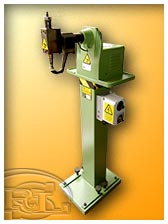
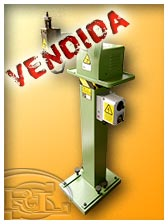
Added: Encolar Suelas 'M-550', plus some other little changes

Changed region(s): [[0.0, 0.0, 0.8036, 0.4062]]

diff --git a/maquinas/encolar/maqUs_encolar-suelas-rodillo-flexible_M-550.htm b/maquinas/encolar/maqUs_encolar-suelas-rodillo-flexible_M-550.htm
@@ -3,11 +3,11 @@
 
 <head>
 <meta http-equiv="Content-Type" content="text/html; charset=utf-8" />
-<title>RaLoS, Maquinaria USADA para Calzado | Máquina de Rebajar Piel con Aspiración y Embrague 'FAV AV2' (#1)</title>
-<meta name="keywords" content="fav av 2, fav av2, rebajar piel fav, rebajar piel, maquinaria rebajar piel, máquina rebajadora piel, máquina rebajar piel, máquina rebajar zapato, máquina rebajar zapatos, máquina rebajadora calzado, máquina rebajar calzado, máquina rebajadora zapato, máquina rebajadora zapatos, rebajar piel, rebajar segunda mano, rebajar ocasión, rebajar segunda mano, maquinaria usada zapatos, maquinas usadas zapatos, segunda mano, ocasion, ralos, Elda, Alicante" />
+<title>RaLoS, Maquinaria USADA para Calzado | Máquina de Encolar Suelas con Rodillo Flexible 'M-550'</title>
+<meta name="keywords" content="m550, m 550, encolar m550, encolar m 550, encolar suelas, maquina encolar, dar cola zapato, encolar zapato, encolar suelas zapato, dar cola calzado, maquina encolar suelas, encolar suelas calzado, encolar suelas segunda mano, encolar suelas usada, maquinaria usada zapatos, maquinas usadas zapatos, segunda mano, ocasion, ralos, Elda, Alicante" />
 
-<meta name="description" content="RaLoS, Maquinaria USADA para Calzado - Máquina de OCASIÓN para Rebajar Piel con Aspiración y Embrague 'FAV AV2'" />
-<meta name="creation_Date" content="04/01/2014" />
+<meta name="description" content="RaLoS, Maquinaria USADA para Calzado - Máquina de OCASIÓN para Encolar la Suela del Zapato con Rodillo Flexible 'M-550'" />
+<meta name="creation_Date" content="17/06/2014" />
 <meta name="geography" content="Fundadores de la Industria del Calzado, 4 (Bajos) - Elda (Alicante) 03600 SPAIN" />
 <meta name="language" content="spanish, español" />
 <meta name="robots" content="index, nofollow" />
@@ -87,15 +87,15 @@ counter++;
     <div class="divider4" style="min-height: 20px;"></div>
   	<div id="mainLogo"><a href="../../index.htm" target="_parent"><img src="../../assets/logoRalos.gif" alt="Inicio" name="logoRalos" width="324" height="102" border="0" /></a></div>
   	<!--<div id="mainLogoBg"></div>-->
-  	<div class="divider1"></div>
-		<h1 style="text-decoration: none; margin-bottom: 0px">RaLoS, MAQUINARIA USADA: Máquina de Rebajar Piel con Aspiración y Embrague &quot;FAV AV2&quot; (#1)</h1>
+ 	<div class="divider1"></div>
+		<h1 style="text-decoration: none; margin-bottom: 0px">RaLoS, MAQUINARIA USADA: Máquina de Encolar Suelas con Rodillo Flexible &quot;M&#8209;550&quot;</h1>
     <div class="divider2"></div>
     <div id="productContainer">
 			<ul>       
         <li id="n001">
         	<div class="liContainer"><a href="#n002" target="_self" title="Haz clic aquí para ir a la siguiente imagen.">
             <img class="outerImg" src="../../images/_mac_vOuterFrame_mTn.png" alt=""/>
-            <img class="vInnerImg" src="maqUs_rebajar-piel-con-aspiracion-y-embrague_FAV_AV2_N1_1h-v.jpg" alt="Máquina de Rebajar Piel con Aspiración y Embrague 'FAV AV2' #1 1"/>
+            <img class="vInnerImg" src="maqUs_encolar-suelas-rodillo-flexible_M-550_1h-v.jpg" alt="Máquina de Encolar Suelas 'M-550' 1"/>
             <img class="spanPosFix" src="../../images/_mac_vOuterFrameFix_mTn.gif" alt=""/>
             <span></span></a>
           </div>
@@ -104,26 +104,26 @@ counter++;
         <li id="n002">
         	<div class="liContainer"><a href="#n003" target="_self" title="Haz clic aquí para ir a la siguiente imagen.">
             <img class="outerImg" src="../../images/_mac_hOuterFrame_mTn.png" alt=""/>
-            <img class="hInnerImg" src="maqUs_rebajar-piel-con-aspiracion-y-embrague_FAV_AV2_N1_2h-h.jpg" alt="Máquina de Rebajar Piel con Aspiración y Embrague 'FAV AV2' #1 2"/>
+            <img class="hInnerImg" src="maqUs_encolar-suelas-rodillo-flexible_M-550_2h-h.jpg" alt="Máquina de Encolar Suelas 'M-550' 2"/>
             <img class="spanPosFix" src="../../images/_mac_hOuterFrameFix_mTn.gif" alt=""/>
           	<span></span></a>
           </div>
         </li>
-        
+
         <li id="n003">
         	<div class="liContainer"><a href="#n004" target="_self" title="Haz clic aquí para ir a la siguiente imagen.">
-            <img class="outerImg" src="../../images/_mac_hOuterFrame_mTn.png" alt=""/>
-            <img class="hInnerImg" src="maqUs_rebajar-piel-con-aspiracion-y-embrague_FAV_AV2_N1_3h-h.jpg" alt="Máquina de Rebajar Piel con Aspiración y Embrague 'FAV AV2' #1 3"/>
-            <img class="spanPosFix" src="../../images/_mac_hOuterFrameFix_mTn.gif" alt=""/>
-          	<span></span></a>
+            <img class="outerImg" src="../../images/_mac_vOuterFrame_mTn.png" alt=""/>
+            <img class="vInnerImg" src="maqUs_encolar-suelas-rodillo-flexible_M-550_3h-v.jpg" alt="Máquina de Encolar Suelas 'M-550' 3"/>
+            <img class="spanPosFix" src="../../images/_mac_vOuterFrameFix_mTn.gif" alt=""/>
+            <span></span></a>
           </div>
         </li>
         
         <li id="n004">
         	<div class="liContainer"><a href="#productDescription" target="_self" title="Haz clic aquí para ir a la información de la máquina.">
-            <img class="outerImg" src="../../images/_mac_vOuterFrame_mTn.png" alt=""/>
-            <img class="vInnerImg" src="maqUs_rebajar-piel-con-aspiracion-y-embrague_FAV_AV2_N1_4h-v.jpg" alt="Máquina de Rebajar Piel con Aspiración y Embrague 'FAV AV2' #1 4"/>
-            <img class="spanPosFix" src="../../images/_mac_vOuterFrameFix_mTn.gif" alt=""/>
+            <img class="outerImg" src="../../images/_mac_hOuterFrame_mTn.png" alt=""/>
+            <img class="hInnerImg" src="maqUs_encolar-suelas-rodillo-flexible_M-550_4h-h.jpg" alt="Máquina de Encolar Suelas 'M-550' 4"/>
+            <img class="spanPosFix" src="../../images/_mac_hOuterFrameFix_mTn.gif" alt=""/>
           	<span></span></a>
           </div>
         </li> 
@@ -131,21 +131,20 @@ counter++;
 			</ul>
 		</div><!--end #productContainer-->
 
-<div id="productDescription">
+  <div id="productDescription">
     	<table width="100%" border="0" cellspacing="0" summary="Información detallada sobre la máquina."><caption></caption>
         <tr bgcolor="#FFFFFF">
           <th colspan="4" bgcolor="#FFFFFF"><h4>DESCRIPCIÓN DE LA MÁQUINA</h4></th>
         </tr>
         <tr>
-       		<td colspan="4"><p><span class="boldText">RaLoS</span> dispone de una máquina de rebajar piel con aspiración* y embrague <span class="boldText">&quot;FAV AV2&quot;</span> de segunda mano, en perfecto estado y lista para trabajar.</p>
-						<p style="margin-top: 12px">* <span style="font-size:80%">RaLoS también dispone de otra &quot;FAV AV2&quot; igual a esta pero <span class="uText"><span class="boldText">sin</span> aspiración</span>. Puedes verla <a href="maqUs_rebajar-piel-con-embrague_FAV_AV2.htm" target="mainFrame" class="boldText">haciendo clic <span class="uText">AQUÍ</span></a>.</span></p></td>
+       		<td colspan="4"><p><span class="boldText">RaLoS</span> dispone de una máquina para encolar suelas con rodillo flexible <span class="boldText">&quot;M-550&quot;</span> de segunda mano, totalmente restaurada en nuestro taller y lista para trabajar.</p></td>
         </tr>
         <tr bgcolor="#FFFFFF">
           <th colspan="4"><h4>CARACTERÍSTICAS TÉCNICAS</h4></th>
         </tr>
         <tr>
-          <td width="50%" colspan="2"><span class="boldText">Conex. Eléctrica: </span>380 V - 50 Hz</td>
-          <td width="50%" colspan="2"><span class="boldText">Dimens. (An./Al./Pr.):</span> 104 x 115 x 58 cm</td>
+          <td width="50%" colspan="2"><span class="boldText">Conex. Eléctrica: </span>380 V</td>
+          <td width="50%" colspan="2"><span class="boldText">Dimens. (An./Al./Pr.):</span> 85 x 115 x 60 cm</td>
         </tr>
         <tr>
           <td width="50%" colspan="2"><span class="boldText">Potencia Instalada:</span> N/D</td>
@@ -155,9 +154,7 @@ counter++;
           <th colspan="4"><h4>CARACTERÍSTICAS DE TRABAJO</h4></th>
         </tr>
 				<tr>
-       		<td colspan="4" align="center"><p>- Gran simplicidad de funcionamiento y alta precisión en los acabados.</p>
-     		  <p>- Grupo de aspiración acoplado en el cuerpo de la máquina.</p>
-     		  <p>- Embrague para proporcionar al trabajador  un mayor control de la velocidad.</p></td>
+       		<td colspan="4" align="center">...</td>
         </tr>
 
         <tr id="rowInfoHead">
@@ -167,11 +164,11 @@ counter++;
         </tr>
 
         <tr id="rowInfo">
-          <td width="25%" class="boldText">No disponible</td>
+          <td width="25%" class="boldText">Disponible</td>
           <td width="50%" colspan="2">Restaurada</td>
         <!--<td width="50%" colspan="2">Máquina revisada en nuestro taller.</td>-->
-          <td width="25%"><a href="http://www.ralosmaquinaria.com/mainFrameContact.htm?Maquina+de+Rebajar+Piel+con+Aspiracion+y+Embrague&'FAV+AV2'+N1&(OCASION)#formContainer" title="Ir al Formulario de Consulta" target="_self" class="boldText">Consultar</a></td>
-  				</tr>
+          <td width="25%"><a href="http://www.ralosmaquinaria.com/mainFrameContact.htm?Maquina+de+Encolar+Suelas+con+Rodillo+Flexible&'M-550'&(OCASION)#formContainer" title="Ir al Formulario de Consulta" target="_self" class="boldText">Consultar</a></td>
+				</tr>
 			</table>
 		</div><!--end productDescription-->
 

diff --git a/maquinas/encolar/maqNu_grupo-dar-latex_N1.htm b/maquinas/encolar/maqNu_grupo-dar-latex_N1.htm
@@ -3,7 +3,7 @@
 
 <head>
 <meta http-equiv="Content-Type" content="text/html; charset=utf-8" />
-<title>RaLoS, Maquinaria NUEVA para Calzado | Mesa o Grupo de Trabajo para Dar Látex al Zapato</title>
+<title>RaLoS, Maquinaria NUEVA para Calzado | Mesa o Grupo de Trabajo para Dar Látex al Zapato 'N1'</title>
 <meta name="keywords" content="dar latex, dar latex calzado, dar latex zapato, latex calzado, latex zapato, pegar latex, pegado latex, maquina dar latex, maquinaria dar latex, maquina latex, maquinaria latex, pulverizador latex, aplicar latex, aplicacion latex, grupo latex, mesa latex, cabina latex, maquinaria nueva calzado, maquinaria nueva zapatos, maquinas nuevas calzado, maquinas nuevas zapatos, maquinaria nueva, maquinas nuevas, ralos" />
 
 <meta name="description" content="RaLoS, Maquinaria NUEVA para Calzado - Mesa o Grupo de Trabajo nueva para dar Latex al Zapato" />
@@ -87,14 +87,14 @@ counter++;
   	<div id="mainLogo"><a href="../../index.htm" target="_parent" title="Ir al Inicio"><img src="../../assets/logoRalos.gif" alt="Ir al Inicio" name="logoRalos" width="324" height="102" border="0" /></a></div>
   	<!--<div id="mainLogoBg"></div>-->
   	<div class="divider1"></div>
-		<h1 style="text-decoration: none; margin-bottom: 0px">RaLoS, MAQUINARIA NUEVA: Mesa o Grupo de Trabajo para Dar Látex al Zapato</h1>
+		<h1 style="text-decoration: none; margin-bottom: 0px">RaLoS, MAQUINARIA NUEVA: Mesa o Grupo de Trabajo para Dar Látex al Zapato &quot;N1&quot;</h1>
     <div class="divider2"></div>
     <div id="productContainer">
 			<ul>       
         <li id="n001">
         	<div class="liContainer"><a href="#n002" target="_self" title="Haz click aquí para ir a la siguiente imagen.">
             <img class="outerImg" src="../../images/_mac_vOuterFrame_mTn.png" alt=""/>
-            <img class="vInnerImg" src="maqNu_grupo-dar-latex_N1_1h-v.jpg" alt="Mesa/Grupo de Trabajo para Dar Látex 1"/>
+            <img class="vInnerImg" src="maqNu_grupo-dar-latex_N1_1h-v.jpg" alt="Mesa/Grupo de Trabajo para Dar Látex 'N1' 1"/>
             <img class="spanPosFix" src="../../images/_mac_vOuterFrameFix_mTn.gif" alt=""/>
             <span></span></a>
           </div>
@@ -103,7 +103,7 @@ counter++;
         <li id="n002">
         	<div class="liContainer"><a href="#n003" target="_self" title="Haz click aquí para ir a la siguiente imagen.">
             <img class="outerImg" src="../../images/_mac_vOuterFrame_mTn.png" alt=""/>
-            <img class="vInnerImg" src="maqNu_grupo-dar-latex_N1_2h-v.jpg" alt="Mesa/Grupo de Trabajo para Dar Látex 1"/>
+            <img class="vInnerImg" src="maqNu_grupo-dar-latex_N1_2h-v.jpg" alt="Mesa/Grupo de Trabajo para Dar Látex 'N1' 1"/>
             <img class="spanPosFix" src="../../images/_mac_vOuterFrameFix_mTn.gif" alt=""/>
           	<span></span></a>
           </div>
@@ -112,7 +112,7 @@ counter++;
         <li id="n003">
         	<div class="liContainer"><a href="#n004" target="_self" title="Haz clic aquí para ir a la información de la máquina.">
             <img class="outerImg" src="../../images/_mac_vOuterFrame_mTn.png" alt=""/>
-            <img class="vInnerImg" src="maqNu_grupo-dar-latex_N1_3h-v.jpg" alt="Mesa/Grupo de Trabajo para Dar Látex 2"/>
+            <img class="vInnerImg" src="maqNu_grupo-dar-latex_N1_3h-v.jpg" alt="Mesa/Grupo de Trabajo para Dar Látex 'N1' 2"/>
             <img class="spanPosFix" src="../../images/_mac_vOuterFrameFix_mTn.gif" alt=""/>
           	<span></span></a>
           </div>
@@ -121,7 +121,7 @@ counter++;
         <li id="n004">
         	<div class="liContainer"><a href="#productDescription" target="_self" title="Haz clic aquí para ir a la información de la máquina.">
             <img class="outerImg" src="../../images/_mac_vOuterFrame_mTn.png" alt=""/>
-            <img class="vInnerImg" src="maqNu_grupo-dar-latex_N1_4h-v.jpg" alt="Mesa/Grupo de Trabajo para Dar Látex 3"/>
+            <img class="vInnerImg" src="maqNu_grupo-dar-latex_N1_4h-v.jpg" alt="Mesa/Grupo de Trabajo para Dar Látex 'N1' 3"/>
             <img class="spanPosFix" src="../../images/_mac_vOuterFrameFix_mTn.gif" alt=""/>
           	<span></span></a>
           </div>
@@ -140,7 +140,7 @@ counter++;
           <th colspan="4" bgcolor="#FFFFFF"><h3>DESCRIPCIÓN DE LA MÁQUINA</h3></th>
         </tr>
         <tr>
-       		<td colspan="4"><p><span class="boldText">RaLoS</span> dispone de una mesa o grupo de trabajo para  llevar a cabo la aplicación de adhesivos tipo &quot;látex&quot; sobre las distintas partes del zapato    con la máxima eficacia y total seguridad.</p></td>
+       		<td colspan="4"><p><span class="boldText">RaLoS</span> dispone de una mesa o grupo de trabajo para llevar a cabo la aplicación de adhesivos tipo &quot;látex&quot; sobre las distintas partes del zapato con la máxima eficacia y total seguridad.</p></td>
         </tr>
         <tr bgcolor="#FFFFFF">
           <th colspan="4"><h3>CARACTERÍSTICAS TÉCNICAS</h3></th>
@@ -179,7 +179,7 @@ counter++;
           <td width="25%" class="boldText">Disponible</td>
           <td width="50%" colspan="2">Nueva</td>
         <!--<td width="50%" colspan="2">Máquina revisada en nuestro taller.</td>-->
-          <td width="25%"><a href="http://www.ralosmaquinaria.com/mainFrameContact.htm?Mesa+o+Grupo+de+Trabajo+para+Dar+Latex&'M-410'&(NUEVA)#formContainer" title="Ir al Formulario de Consulta" target="_self" class="boldText">Consultar</a></td>
+          <td width="25%"><a href="http://www.ralosmaquinaria.com/mainFrameContact.htm?Mesa+o+Grupo+de+Trabajo+para+Dar+Latex&'N1'&(NUEVA)#formContainer" title="Ir al Formulario de Consulta" target="_self" class="boldText">Consultar</a></td>
         </tr>
       </table>
 	</div><!--end productDescription-->

diff --git a/maquinas/sentar-cantos/maqUs_sentar-cantos-y-costuras_COLLI_B-53.htm b/maquinas/sentar-cantos/maqUs_sentar-cantos-y-costuras_COLLI_B-53.htm
@@ -88,7 +88,7 @@ counter++;
   	<div id="mainLogo"><a href="../../index.htm" target="_parent"><img src="../../assets/logoRalos.gif" alt="Inicio" name="logoRalos" width="324" height="102" border="0" /></a></div>
   	<!--<div id="mainLogoBg"></div>-->
 <div class="divider1"></div>
-		<h1 style="text-decoration: none; margin-bottom: 0px">RaLoS, MAQUINARIA USADA: Máquina de Sentar Cantos y Costuras del Zapato COLLI&nbsp;&quot;B&#8209;53&quot;</h1>
+		<h1 style="text-decoration: none; margin-bottom: 0px">RaLoS, MAQUINARIA USADA: Máquina de Sentar Cantos y Costuras del Zapato COLLI&nbsp;&quot;B&#8209;53&quot; (VENDIDA)</h1>
   <div class="divider2"></div>
     <div id="productContainer">
 			<ul>       
@@ -119,7 +119,7 @@ counter++;
           <th colspan="4" bgcolor="#FFFFFF"><h4>DESCRIPCIÓN DE LA MÁQUINA</h4></th>
         </tr>
         <tr>
-       		<td colspan="4"><p><span class="boldText">RaLoS</span> dispone de una máquina de martillear o sentar cantos de la piel y costuras del zapato con calor en yunque. La  <span class="boldText">&quot;COLLI&nbsp;B&#8209;53&quot;</span> es una máquina de segunda mano, que está en perfecto estado y lista para trabajar.</p></td>
+       		<td colspan="4"><p><span class="boldText">RaLoS</span> <span class="lThrought">dispone</span> de una máquina de martillear o sentar cantos de la piel y costuras del zapato con calor en yunque. La <span class="boldText">&quot;COLLI&nbsp;B&#8209;53&quot;</span> es una máquina de segunda mano, que está en perfecto estado y lista para trabajar.</p></td>
         </tr>
         <tr bgcolor="#FFFFFF">
           <th colspan="4"><h4>CARACTERÍSTICAS TÉCNICAS</h4></th>
@@ -147,7 +147,7 @@ counter++;
         </tr>
 
         <tr id="rowInfo">
-          <td width="25%" class="boldText">Disponible</td>
+          <td width="25%" class="boldText">No disponible</td>
           <td width="50%" colspan="2">En condiciones de trabajo.</td>
         <!--<td width="50%" colspan="2">Máquina revisada en nuestro taller.</td>-->
           <td width="25%"><a href="http://www.ralosmaquinaria.com/mainFrameContact.htm?Maquina+de+Sentar+Cantos+y+Costuras&'COLLI+B-53'&(OCASION)#formContainer" title="Ir al Formulario de Consulta" target="_self" class="boldText">Consultar</a></td>

diff --git a/index.htm b/index.htm
@@ -447,6 +447,15 @@ div .mainFooterContent {
         </li>
 
         <li>
+        	<div class="liContainer"><a href="maquinas/encolar/maqUs_encolar-suelas-rodillo-flexible_M-550.htm" target="mainFrame" title="Ver Máquina de Encolar Suelas &quot;M-550&quot;">
+            <img class="outerImg" alt="" src="images/_mac_vOuterFrame_mTn.png"/>
+            <img class="vInnerImg" alt="Máquina de Encolar Suelas con Rodillo Flexible &quot;M-550&quot;" src="maquinas/encolar/maqUs_encolar-suelas-rodillo-flexible_M-550_1m-v.jpg"/>
+            <img class="spanPosFix" alt="" src="images/_mac_vOuterFrameFix_mTn.gif"/>
+            <span>Encolar Suelas &quot;M&#8209;550&quot;</span></a>
+        	</div>
+        </li>
+
+        <li>
         	<div class="liContainer"><a href="maquinas/grapar/maqUs_grapadora-de-plantas_N1.htm" target="mainFrame" title="Ver Grapadora de Plantas &quot;N1&quot;">
             <img class="outerImg" alt="" src="images/_mac_vOuterFrame_mTn.png"/>
             <img class="vInnerImg" alt="Grapadora de Plantas &quot;N1&quot;" src="maquinas/grapar/maqUs_grapadora-de-plantas_N1_1m-v.jpg"/>

diff --git a/maquinaria-Ocasion.htm b/maquinaria-Ocasion.htm
@@ -224,6 +224,12 @@ location.href="index.htm?" + document.URL
       <img class="IMGv" alt="Máquina de Encolar Corte 'M-410'" src="maquinas/encolar/maqUs_encolar-corte_M-410_1m-v.jpg"/>
       <span>Encolar Corte &quot;M&#8209;410&quot;</span></a>
       </div></li>
+
+      <li><div class="liContainer">
+      <a class="Av" href="maquinas/encolar/maqUs_encolar-suelas-rodillo-flexible_M-550.htm" target="mainFrame" title="Ver: Máquina 'M-550'">
+      <img class="IMGv" alt="Máquina de Encolar Suelas con Rodillo Flexible 'M-550'" src="maquinas/encolar/maqUs_encolar-suelas-rodillo-flexible_M-550_1m-v.jpg"/>
+      <span>Encolar Suelas &quot;M&#8209;550&quot;</span></a>
+      </div></li>
       
       <li><div class="liContainer">
       <a class="Av" href="maquinas/grapar/maqUs_grapadora-de-plantas_N1.htm" target="mainFrame" title="Ver: Grapadora Plantas 'N1'">

diff --git a/maquinas/encolar/maqUs_encolar-corte_M-410.htm b/maquinas/encolar/maqUs_encolar-corte_M-410.htm
@@ -158,7 +158,7 @@ counter++;
           <td width="25%" class="boldText">Disponible</td>
           <td width="50%" colspan="2">En condiciones de trabajo</td>
         <!--<td width="50%" colspan="2">Máquina revisada en nuestro taller.</td>-->
-          <td width="25%"><a href="http://www.ralosmaquinaria.com/mainFrameContact.htm?Maquina+de+Encolar+Corte&'M-410'&(NUEVA)#formContainer" title="Ir al Formulario de Consulta" target="_self" class="boldText">Consultar</a></td>
+          <td width="25%"><a href="http://www.ralosmaquinaria.com/mainFrameContact.htm?Maquina+de+Encolar+Corte&'M-410'&(OCASION)#formContainer" title="Ir al Formulario de Consulta" target="_self" class="boldText">Consultar</a></td>
 				</tr>
 			</table>
 		</div><!--end productDescription-->
